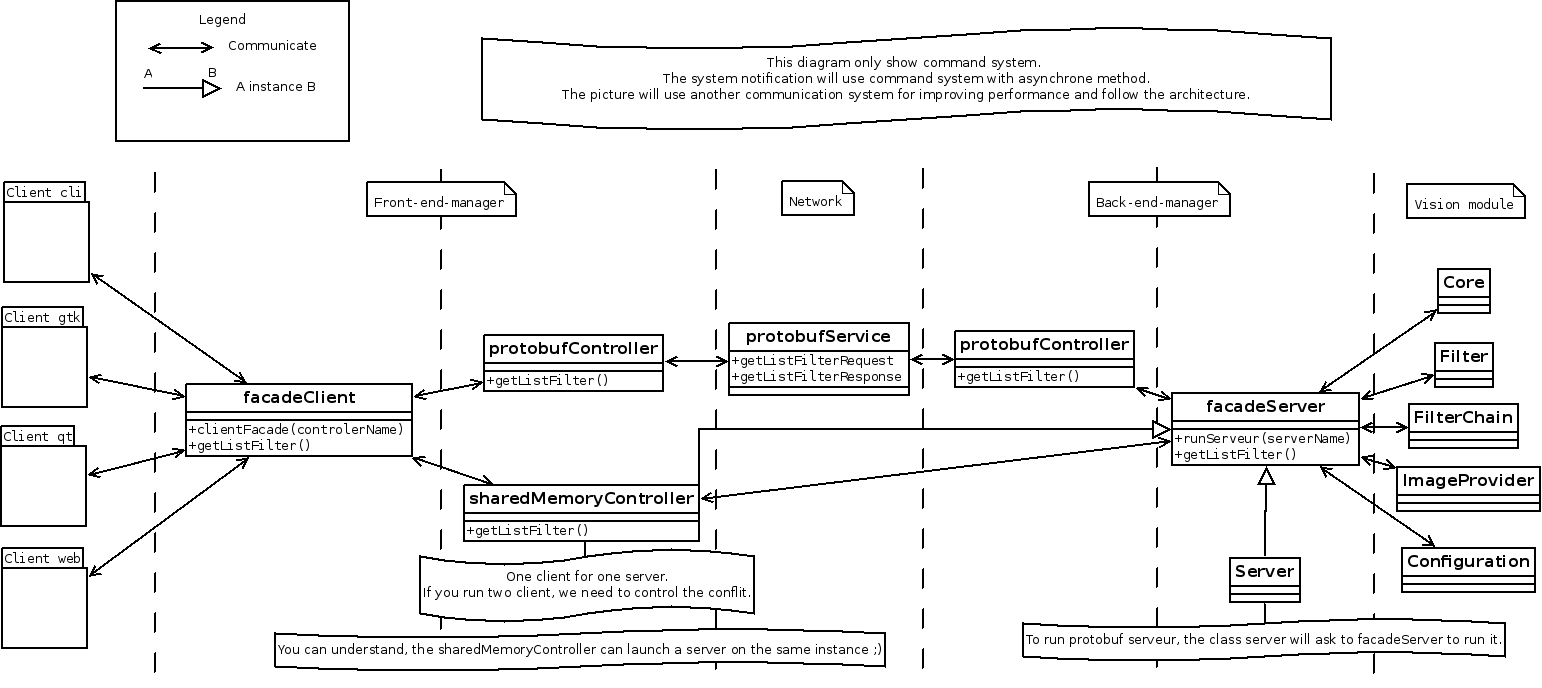
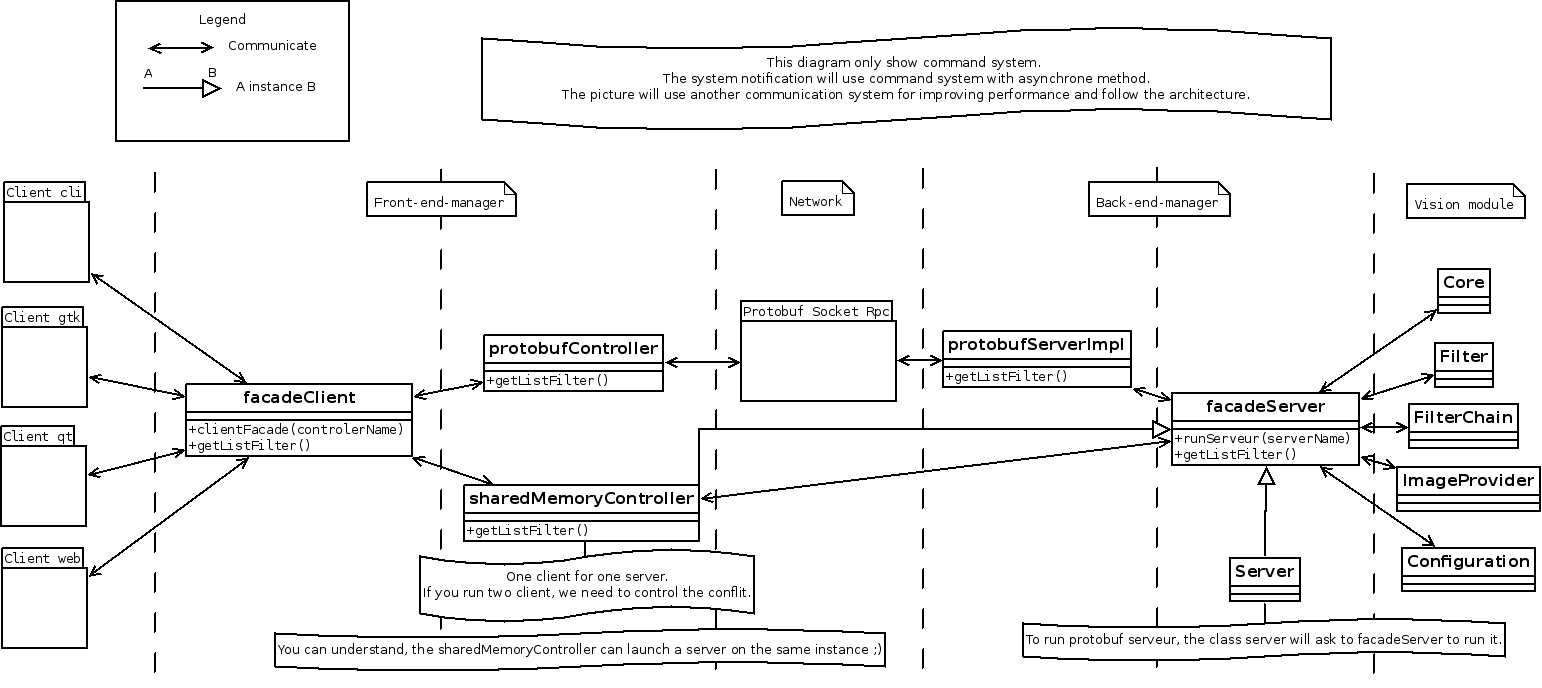
Implement sharedMemory and protobuf controller. Update diagramme and add comments on some file.

Changed region(s): [[0.4358, 0.4273, 0.7471, 0.5799], [0.716, 0.5494, 0.7471, 0.5799]]

diff --git a/CapraVision/client/cli/vCmd.py b/CapraVision/client/cli/vCmd.py
@@ -23,50 +23,31 @@ Authors: Mathieu Benoit (mathben963@gmail.com)
 Date : October 2012
 """
 
+from CapraVision.client.controller import facadeClient
 # SOURCE of this code about the commande line : http://www.doughellmann.com/PyMOTW/cmd/
 import cmd
-
-# Import required RPC modules
-from protobuf.socketrpc import RpcService
-from CapraVision.proto import server_pb2
 
 # Configure logging
 import logging
 log = logging.getLogger(__name__)
 logging.basicConfig(level=logging.DEBUG)
 
-# The callback is for asynchronous call to RpcService
-def callback(request, response):
-    """Define a simple async callback."""
-    log.info('Asynchronous response :' + response.__str__())
-    
 class VCmd(cmd.Cmd):
     def __init__(self, completekey='tab', stdin=None, stdout=None):
         cmd.Cmd.__init__(self, completekey=completekey, stdin=stdin, stdout=stdout)
+        self.facade = facadeClient.FacadeClient("protobuf")
+        #self.facade = facadeClient.FacadeClient("sharedMemory")
         
-        # Server details
-        hostname = 'localhost'
-        port = 8090
-        
-        # Create a new service instance
-        self.service = RpcService(server_pb2.CommandService_Stub, port, hostname)
-    
     ####################################################################################################
     # List of command
     ####################################################################################################
     def do_getFilter(self, line):
-        request = server_pb2.GetFilterListRequest()
-        # Make an synchronous call
-        try:
-            log.info('Making synchronous call')
-            response = self.service.GetFilterList(request, timeout=10000)
-            log.info('Synchronous response: ' + response.__str__())
+        lstFilter = self.facade.getFilter()
+        if lstFilter is not None:
+            print("Nombre de ligne %s, tableau : %s" % (len(lstFilter), lstFilter))
+        else:
+            print("No filterlist")
             
-            print("Nombre de ligne %s, tableau : %s" % (len(response.filters), response.filters))
-            
-        except Exception, ex:
-            log.exception(ex)
-    
     def do_EOF(self, line):
         # Redo last command
         return True

diff --git a/CapraVision/client/controller/controllerProtobuf.py b/CapraVision/client/controller/controllerProtobuf.py
@@ -1,0 +1,65 @@
+#!/usr/bin/env python
+
+#    Copyright (C) 2012  Club Capra - capra.etsmtl.ca
+#
+#    This file is part of CapraVision.
+#    
+#    CapraVision is free software: you can redistribute it and/or modify
+#    it under the terms of the GNU General Public License as published by
+#    the Free Software Foundation, either version 3 of the License, or
+#    (at your option) any later version.
+#
+#    This program is distributed in the hope that it will be useful,
+#    but WITHOUT ANY WARRANTY; without even the implied warranty of
+#    MERCHANTABILITY or FITNESS FOR A PARTICULAR PURPOSE.  See the
+#    GNU General Public License for more details.
+#
+#    You should have received a copy of the GNU General Public License
+#    along with this program.  If not, see <http://www.gnu.org/licenses/>.
+"""
+Description : This controller use protobuf to communicate to the vision server
+Authors: Mathieu Benoit (mathben963@gmail.com)
+Date : October 2012
+"""
+
+# Import required RPC modules
+from protobuf.socketrpc import RpcService
+from CapraVision.proto import server_pb2
+
+# Configure logging
+import logging
+log = logging.getLogger(__name__)
+logging.basicConfig(level=logging.DEBUG)
+
+# The callback is for asynchronous call to RpcService
+def callback(request, response):
+    """Define a simple async callback."""
+    log.info('Asynchronous response :' + response.__str__())
+
+class Controller():
+    def __init__(self):
+        # Server details
+        hostname = 'localhost'
+        port = 8090
+        
+        # Create a new service instance
+        self.service = RpcService(server_pb2.CommandService_Stub, port, hostname)
+    
+    def getFilter(self):
+        request = server_pb2.GetFilterListRequest()
+        # Make an synchronous call
+        returnValue = None
+        try:
+            response = self.service.GetFilterList(request, timeout=10000)
+            returnValue = response.filters 
+            
+        except Exception, ex:
+            log.exception(ex)
+            
+        return returnValue
+    
+    
+    
+    
+    
+    

diff --git a/CapraVision/client/controller/facadeClient.py b/CapraVision/client/controller/facadeClient.py
@@ -1,3 +1,5 @@
+#!/usr/bin/env python
+
 #    Copyright (C) 2012  Club Capra - capra.etsmtl.ca
 #
 #    This file is part of CapraVision.
@@ -15,14 +17,27 @@
 #    You should have received a copy of the GNU General Public License
 #    along with this program.  If not, see <http://www.gnu.org/licenses/>.
 
-# Description : Generate pb2 file 
-# Authors: Mathieu Benoit (mathben963@gmail.com)
-# Date : October 2012
+"""
+Description : This is the facade to communicate with client and controller.
+Authors: Mathieu Benoit (mathben963@gmail.com)
+Date : October 2012
+"""
+
+class FacadeClient():
+    def __init__(self, sControlerName="protobuf"):
+        self.controller = None
+        
+        # select good controller
+        if sControlerName == "protobuf":
+            from controllerProtobuf import Controller
+        elif sControlerName == "sharedMemory":
+            from controllerSharedMemory import Controller
+        else:
+            raise Exception("Don't find the controller %s" % (sControlerName))
+
+        self.controller = Controller()
+    
+    def getFilter(self):
+        return self.controller.getFilter()
 
 
-PROTONAME=server
-
-all: build
-
-build: 
-	protoc --python_out=. $(PROTONAME).proto

diff --git a/CapraVision/server/controller/protobufServerImpl.py b/CapraVision/server/controller/protobufServerImpl.py
@@ -26,23 +26,19 @@ Date : October 2012
 # Import required RPC modules
 from CapraVision.proto import server_pb2
 
-# Import CapraVision library
-from CapraVision.server.filters import utils
+import facadeServer
 
-class ServerImpl(server_pb2.CommandService):
+class ProtobufServerImpl(server_pb2.CommandService):
     def __init__(self, *args, **kwargs):
         server_pb2.CommandService.__init__(self, *args, **kwargs)
+        
+        self.facadeServer = facadeServer.FacadeServer()
     
     def GetFilterList(self, controller, request, done):
-        print "Get Filter List"
-        
         # Create a reply
         response = server_pb2.GetFilterListResponse()
-        filters = utils.load_filters()
-        for sFilter in filters.keys():
-            response.filters.append(sFilter)
-        
-        print "Response : %s" % (response)
+        for filter in self.facadeServer.getFilter():
+            response.filters.append(filter) 
         
         # We're done, call the run method of the done callback
         done.run(response)

diff --git a/CapraVision/client/controller/controllerSharedMemory.py b/CapraVision/client/controller/controllerSharedMemory.py
@@ -1,3 +1,5 @@
+#!/usr/bin/env python
+
 #    Copyright (C) 2012  Club Capra - capra.etsmtl.ca
 #
 #    This file is part of CapraVision.
@@ -15,14 +17,17 @@
 #    You should have received a copy of the GNU General Public License
 #    along with this program.  If not, see <http://www.gnu.org/licenses/>.
 
-# Description : Generate pb2 file 
-# Authors: Mathieu Benoit (mathben963@gmail.com)
-# Date : October 2012
+"""
+Description : This controller is connected by shared memory to the server
+Authors: Mathieu Benoit (mathben963@gmail.com)
+Date : October 2012
+"""
+from CapraVision.server.controller import facadeServer
 
-
-PROTONAME=server
-
-all: build
-
-build: 
-	protoc --python_out=. $(PROTONAME).proto
+class Controller():
+    def __init__(self):
+        self.facadeServer = facadeServer.FacadeServer()
+    
+    def getFilter(self):
+        return self.facadeServer.getFilter()
+    

diff --git a/CapraVision/server/controller/facadeServer.py b/CapraVision/server/controller/facadeServer.py
@@ -1,3 +1,5 @@
+#!/usr/bin/env python
+
 #    Copyright (C) 2012  Club Capra - capra.etsmtl.ca
 #
 #    This file is part of CapraVision.
@@ -15,14 +17,17 @@
 #    You should have received a copy of the GNU General Public License
 #    along with this program.  If not, see <http://www.gnu.org/licenses/>.
 
-# Description : Generate pb2 file 
-# Authors: Mathieu Benoit (mathben963@gmail.com)
-# Date : October 2012
 
+"""
+Description : This is the facade to communicate with module of vision server
+Authors: Mathieu Benoit (mathben963@gmail.com)
+Date : October 2012
+"""
 
-PROTONAME=server
+# Import CapraVision library
+from CapraVision.server.filters import utils
 
-all: build
-
-build: 
-	protoc --python_out=. $(PROTONAME).proto
+class FacadeServer():
+    
+    def getFilter(self):
+        return utils.load_filters().keys()

diff --git a/CapraVision/server/mainserver.py b/CapraVision/server/mainserver.py
@@ -26,12 +26,12 @@ Date : October 2012
 def run():
     # Import required RPC modules
     import protobuf.socketrpc.server as server
-    from controller import serverImpl as impl
+    from controller import protobufServerImpl as impl
 
     # Create and register the service
     # Note that this is an instantiation of the implementation class,
     # *not* the class defined in the proto file.
-    server_service = impl.ServerImpl()
+    server_service = impl.ProtobufServerImpl()
     server = server.SocketRpcServer(8090)
     server.registerService(server_service)
 

diff --git a/server.py b/server.py
@@ -17,6 +17,12 @@
 #    You should have received a copy of the GNU General Public License
 #    along with this program.  If not, see <http://www.gnu.org/licenses/>.
 
+"""
+Description : Run the vision server
+Authors: Mathieu Benoit (mathben963@gmail.com)
+Date : October 2012
+"""
+
 if __name__ == '__main__':
     from CapraVision.server.mainserver import run
     run()

diff --git a/client.py b/client.py
@@ -17,6 +17,12 @@
 #    You should have received a copy of the GNU General Public License
 #    along with this program.  If not, see <http://www.gnu.org/licenses/>.
 
+"""
+Description : launch vision client. Can choose multiple client 
+Authors: Mathieu Benoit (mathben963@gmail.com)
+Date : October 2012
+"""
+
 import argparse
 
 def runGtk():

diff --git a/CapraVision/client/gtk/maingtk.py b/CapraVision/client/gtk/maingtk.py
@@ -17,6 +17,11 @@
 #    You should have received a copy of the GNU General Public License
 #    along with this program.  If not, see <http://www.gnu.org/licenses/>.
 
+"""
+Description : Open gtk 
+Authors: Benoit Paquet
+Date : October 2012
+"""
 
 def run():
     from gi.repository import Gtk, GObject

diff --git a/INSTALL.md b/INSTALL.md
@@ -14,7 +14,7 @@ Until OpenCV 2.4 is fully supported, the preferred way is to compile OpenCV manu
 
 A. Install dependencies
 
- sudo apt-get install glade python python-numpy python-opencv
+ sudo apt-get install glade python python-numpy python-opencv protobuf-python
 
 B. Install OpenCV 2.4
 
